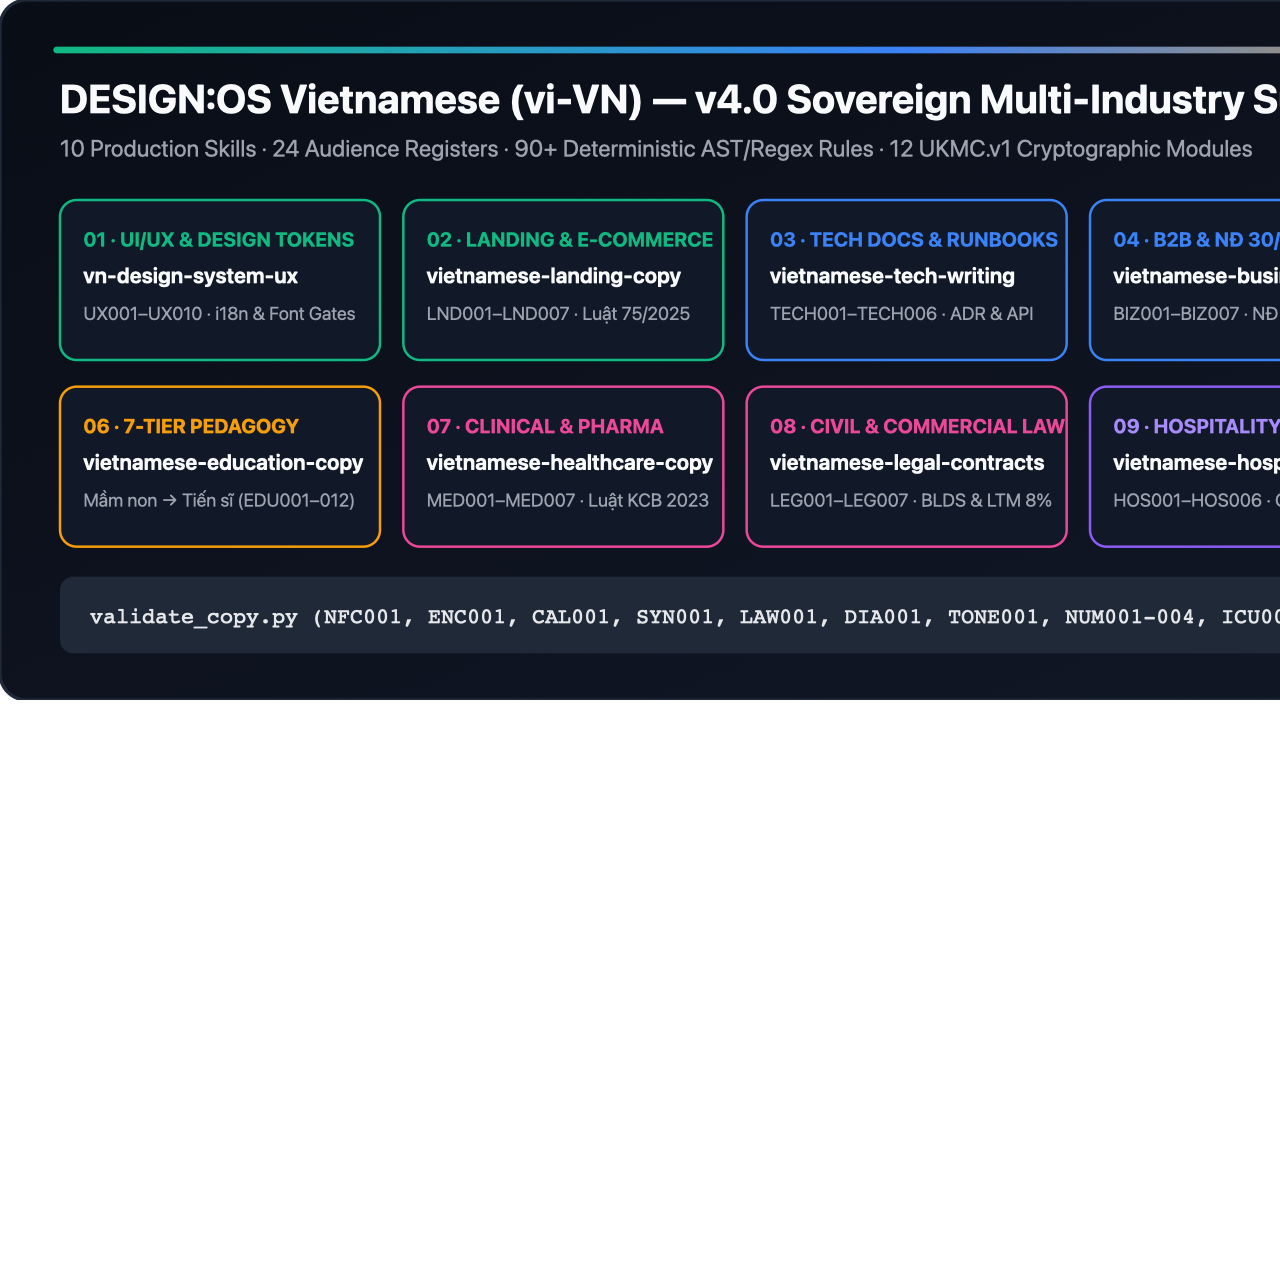
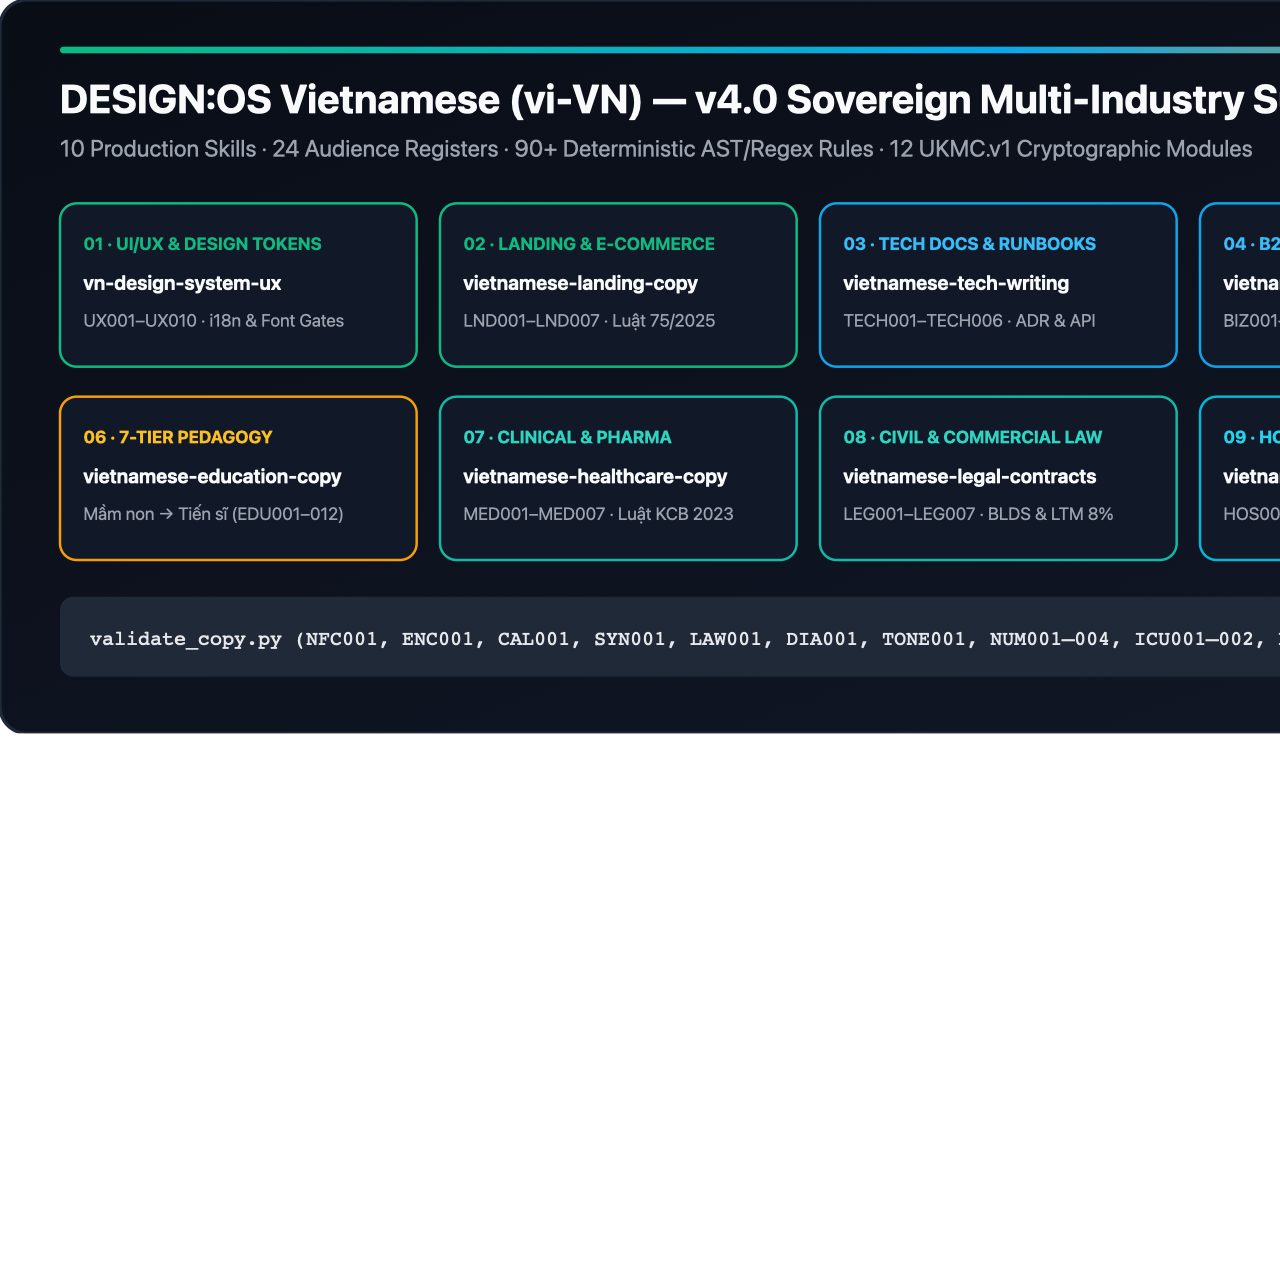
style(pages): refine 10-skill SVG card padding & inline code tags in docs/index.html

Changed region(s): [[0.0, 0.1562, 1.0, 0.5938], [0.4062, 0.0312, 1.0, 0.0625]]

diff --git a/docs/index.html b/docs/index.html
@@ -152,23 +152,23 @@
       <div class="register">
         <div class="register-row">
           <svg class="ph" viewBox="0 0 256 256" fill="currentColor" aria-hidden="true" data-size="20"><path d="M224,128a8,8,0,0,1-8,8H104a8,8,0,0,1,0-16H216A8,8,0,0,1,224,128ZM104,72H216a8,8,0,0,0,0-16H104a8,8,0,0,0,0,16ZM216,184H104a8,8,0,0,0,0,16H216a8,8,0,0,0,0-16Z"/></svg>
-          <h3>90+ deterministic AST &amp; regex rules (`validate_copy.py`)</h3>
-          <p>Enforces 18 universal rules (`NFC001`, `ENC001`, `CAL001`, `SYN001`, `LAW001`, `DIA001`, `TONE001`, `NUM001–004`, `ICU001–002`, `PRO001–002`) plus 70+ domain rules with hardware chip guards (`Apple M2/M3`, `SSD M.2`), compound-word pronoun exemptions (`bạn bè`, `quý giá`), and negation-aware superlative detection.</p>
+          <h3>90+ deterministic AST &amp; regex rules (<code>validate_copy.py</code>)</h3>
+          <p>Enforces 18 universal rules (<code>NFC001</code>, <code>ENC001</code>, <code>CAL001</code>, <code>SYN001</code>, <code>LAW001</code>, <code>DIA001</code>, <code>TONE001</code>, <code>NUM001–004</code>, <code>ICU001–002</code>, <code>PRO001–002</code>) plus 70+ domain rules with hardware chip guards (<code>Apple M2/M3</code>, <code>SSD M.2</code>), compound-word pronoun exemptions (<code>bạn bè</code>, <code>quý giá</code>), and negation-aware superlative detection.</p>
         </div>
         <div class="register-row">
           <svg class="ph" viewBox="0 0 256 256" fill="currentColor" aria-hidden="true" data-size="20"><path d="M208,40H48A16,16,0,0,0,32,56v56c0,52.72,25.52,84.67,46.93,102.19,23.06,18.86,46,25.26,47,25.53a8,8,0,0,0,4.2,0c1-.27,23.91-6.67,47-25.53C198.48,196.67,224,164.72,224,112V56A16,16,0,0,0,208,40Z"/></svg>
           <h3>Full 7-tier Vietnamese pedagogy continuum (Mầm non → Tiến sĩ &amp; GS/PGS)</h3>
-          <p>Covers Preschool (`Nhà trẻ 3–36 tháng` &amp; `Mẫu giáo 3–6 tuổi` — VBHN 01/VBHN-BGDĐT qualitative domains), Primary (TT 27/2020), Secondary (TT 22/2021), TVET (TT 04/2022), Undergraduate VQF Level 6 (TT 08/2021), Master's VQF Level 7 (TT 23/2021), and Doctoral VQF Level 8 + `GS./PGS.` Academic Ranks (TT 18/2021 &amp; QĐ 37/2018/QĐ-TTg).</p>
+          <p>Covers Preschool (<code>Nhà trẻ 3–36 tháng</code> &amp; <code>Mẫu giáo 3–6 tuổi</code> — VBHN 01/VBHN-BGDĐT qualitative domains), Primary (TT 27/2020), Secondary (TT 22/2021), TVET (TT 04/2022), Undergraduate VQF Level 6 (TT 08/2021), Master's VQF Level 7 (TT 23/2021), and Doctoral VQF Level 8 + <code>GS./PGS.</code> Academic Ranks (TT 18/2021 &amp; QĐ 37/2018/QĐ-TTg).</p>
         </div>
         <div class="register-row">
           <svg class="ph" viewBox="0 0 256 256" fill="currentColor" aria-hidden="true" data-size="20"><path d="M224,128a96,96,0,0,1-94.71,96H128A95.38,95.38,0,0,1,62.1,197.8a8,8,0,0,1,11-11.63A80,80,0,1,0,71.43,71.39L44.59,96H72a8,8,0,0,1,0,16H24a8,8,0,0,1-8-8V56a8,8,0,0,1,16,0V85.8L60.25,60A96,96,0,0,1,224,128Z"/></svg>
           <h3>Multi-industry statutory compliance across 10 domains</h3>
-          <p>Validates Advertising Law 75/2025/QH15, Decree 30/2020/NĐ-CP administrative *Công văn*, Circular 99/2025/TT-BTC accounting, Healthcare Law 2023 &amp; Decree 15/2018 TPCN disclaimers, Commercial Law 8% penalty caps, Tourism Law 2017 `++` pricing, and Labor Code 2019 non-discrimination and >=85% probation wages.</p>
+          <p>Validates Advertising Law 75/2025/QH15, Decree 30/2020/NĐ-CP administrative *Công văn*, Circular 99/2025/TT-BTC accounting, Healthcare Law 2023 &amp; Decree 15/2018 TPCN disclaimers, Commercial Law 8% penalty caps, Tourism Law 2017 <code>++</code> pricing, and Labor Code 2019 non-discrimination and >=85% probation wages.</p>
         </div>
         <div class="register-row">
           <svg class="ph" viewBox="0 0 256 256" fill="currentColor" aria-hidden="true" data-size="20"><path d="M230.33,141.06a24.43,24.43,0,0,0-21.24-4.23l-41.84,9.62A28,28,0,0,0,140,112H89.94a31.82,31.82,0,0,0-22.63,9.37L44.69,144H16A16,16,0,0,0,0,160v40a16,16,0,0,0,16,16H120l64-16,42-17.18a24.6,24.6,0,0,0,4.33-41.76Z"/></svg>
           <h3>UKMC.v1 cryptographic provenance &amp; 339 golden evaluation pairs</h3>
-          <p>All 12 foundational knowledge documents carry SHA-256 source attribution and 53 inline `ease:source` evidence anchors verified by `tools/verify_ukmc.py` (`STOP_SUFFICIENT`).</p>
+          <p>All 12 foundational knowledge documents carry SHA-256 source attribution and 53 inline <code>ease:source</code> evidence anchors verified by <code>tools/verify_ukmc.py</code> (<code>STOP_SUFFICIENT</code>).</p>
         </div>
       </div>
 
@@ -210,15 +210,15 @@ python3 scripts/self_check.py &amp;&amp; python3 tools/verify_ukmc.py</code></pr
         </div>
         <div class="register-row" data-icon="none">
           <h3><code>check_i18n_parity.py</code></h3>
-          <p>Compares `en.json` and `vi.json` catalogs for missing keys, placeholder parity, NFD corruption, ICU `other`-only plural compliance, and UI expansion character caps.</p>
+          <p>Compares <code>en.json</code> and <code>vi.json</code> catalogs for missing keys, placeholder parity, NFD corruption, ICU <code>other</code>-only plural compliance, and UI expansion character caps.</p>
         </div>
         <div class="register-row" data-icon="none">
           <h3><code>check_font_coverage.py</code></h3>
-          <p>Audits CSS font stacks and `@font-face` `unicode-range` declarations for complete 134 precomposed Vietnamese glyph coverage across Latin Extended-A/B and Latin Extended Additional.</p>
+          <p>Audits CSS font stacks and <code>@font-face</code> <code>unicode-range</code> declarations for complete 134 precomposed Vietnamese glyph coverage across Latin Extended-A/B and Latin Extended Additional.</p>
         </div>
         <div class="register-row" data-icon="none">
           <h3><code>verify_ukmc.py</code></h3>
-          <p>Verifies all 12 `UKMC.v1` knowledge modules, 53 inline `ease:source` SHA-256 anchors, and the `STOP_SUFFICIENT` epistemic gate.</p>
+          <p>Verifies all 12 <code>UKMC.v1</code> knowledge modules, 53 inline <code>ease:source</code> SHA-256 anchors, and the <code>STOP_SUFFICIENT</code> epistemic gate.</p>
         </div>
       </div>
     </section>
@@ -226,7 +226,7 @@ python3 scripts/self_check.py &amp;&amp; python3 tools/verify_ukmc.py</code></pr
     <!-- 6B. 10 PRODUCTION SKILLS SHOWCASE -->
     <section id="skills" data-pace="chapter" aria-labelledby="skills-h">
       <h2 id="skills-h" class="ds-heading" data-level="2">10 Production Skills &amp; Statutory Engines</h2>
-      <p>Every skill is self-contained with its own `SKILL.md` router, domain rule module (`rules_*.py`), machine-readable glossary and banned-phrase tables, compliant `.md.template` assets, and golden evaluation pairs.</p>
+      <p>Every skill is self-contained with its own <code>SKILL.md</code> router, domain rule module (<code>rules_*.py</code>), machine-readable glossary and banned-phrase tables, compliant <code>.md.template</code> assets, and golden evaluation pairs.</p>
       <div class="link-list">
         <a class="ds-icon-row" href="https://github.com/jangtrinh/design-os-vietnamese/blob/main/skills/vn-design-system-ux/SKILL.md">
           <svg class="ph" data-lead="true" viewBox="0 0 256 256" fill="currentColor" aria-hidden="true"><path d="M223.68,66.15,135.68,18a15.88,15.88,0,0,0-15.36,0l-88,48.17a16,16,0,0,0-8.32,14v95.64a16,16,0,0,0,8.32,14l88,48.17a15.88,15.88,0,0,0,15.36,0l88-48.17a16,16,0,0,0,8.32-14V80.18A16,16,0,0,0,223.68,66.15ZM128,32l80.34,44-29.77,16.3-80.35-44ZM128,120,47.66,76l33.9-18.56,80.34,44ZM40,90l80,43.78v85.79L40,175.82Zm176,85.78h0l-80,43.79V133.82l32-17.51V152a8,8,0,0,0,16,0V107.55L216,90v85.77Z"/></svg>
